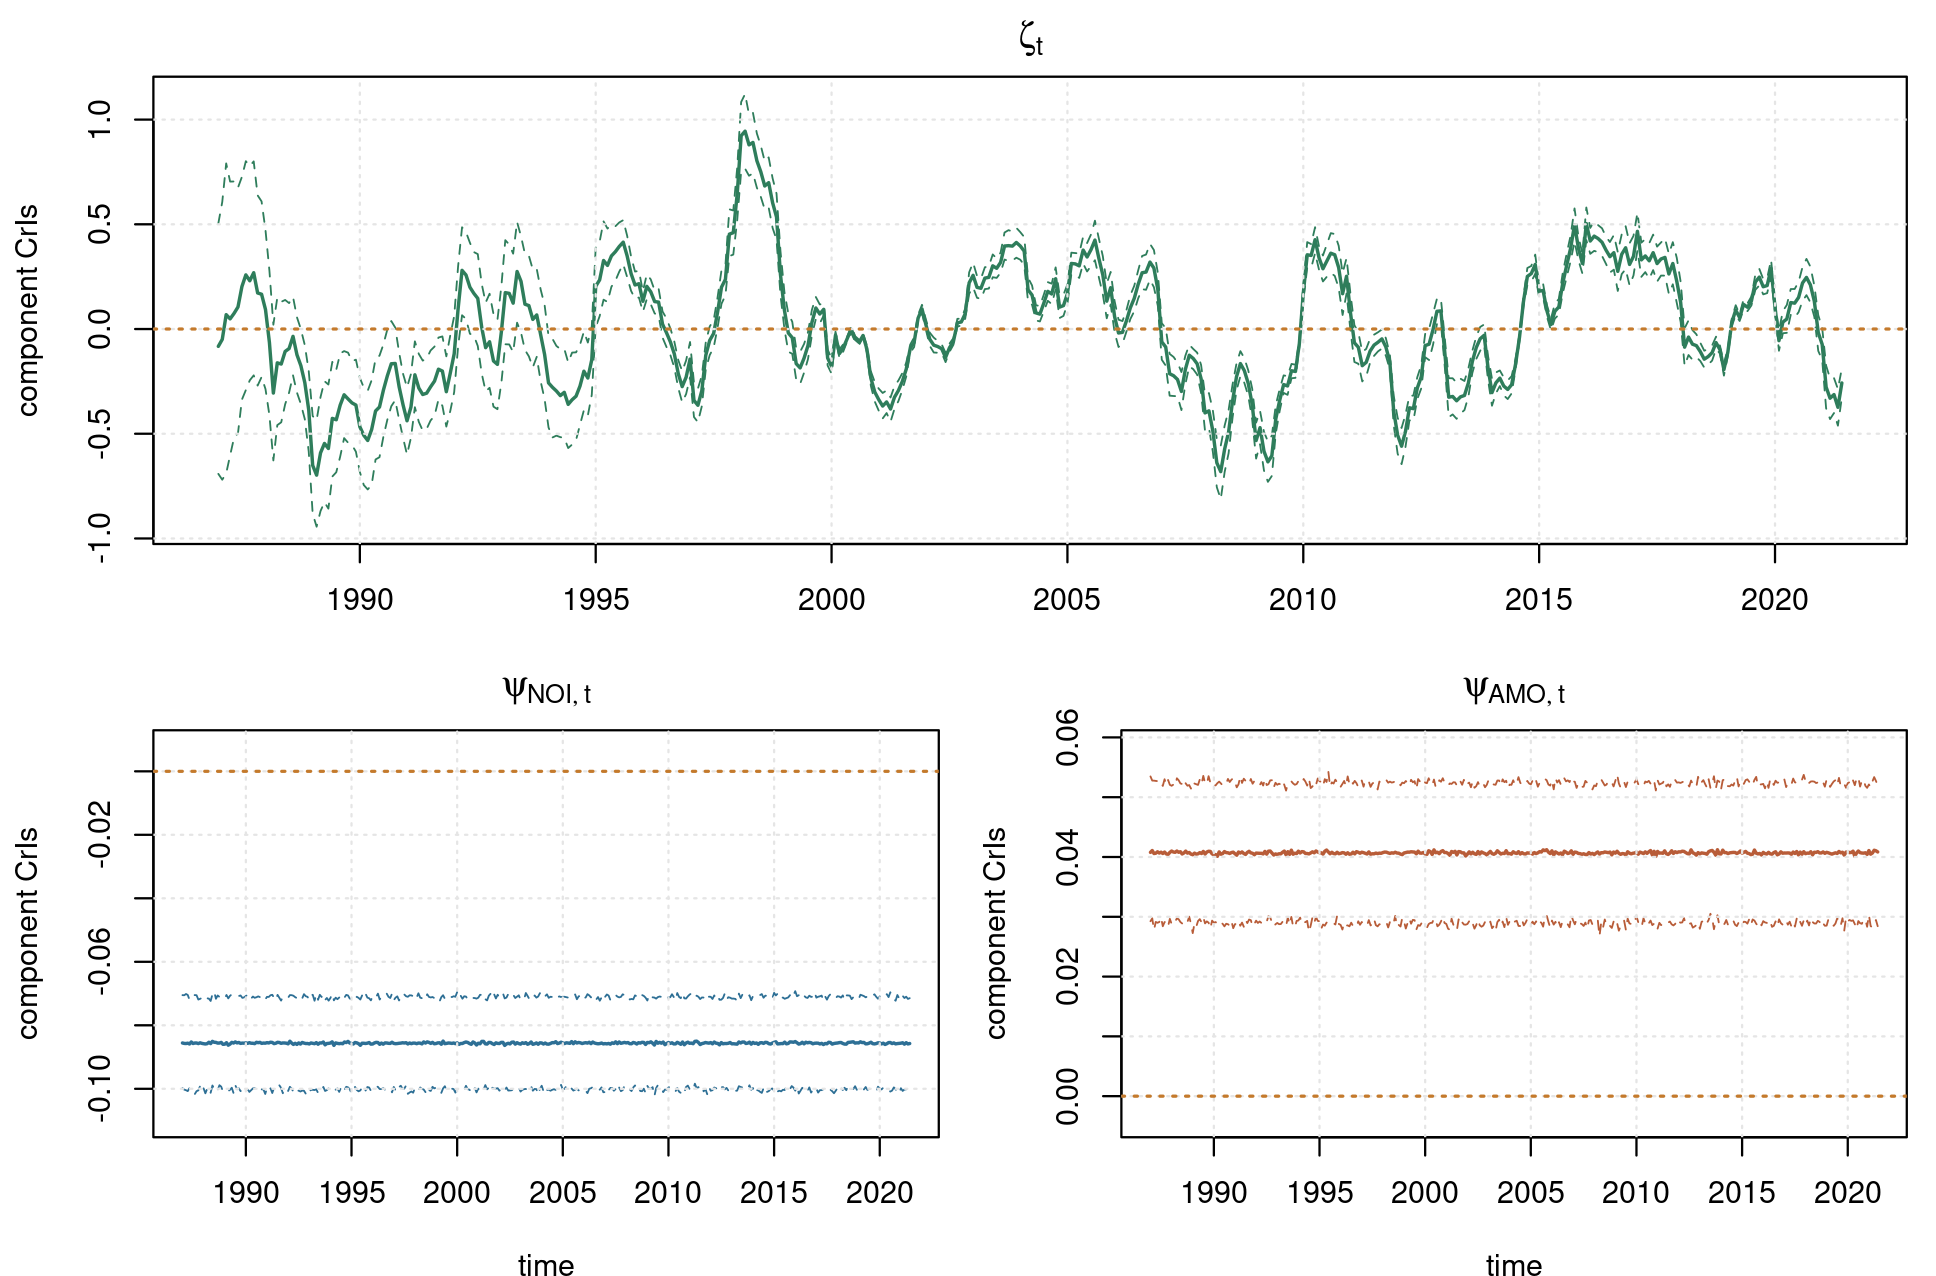
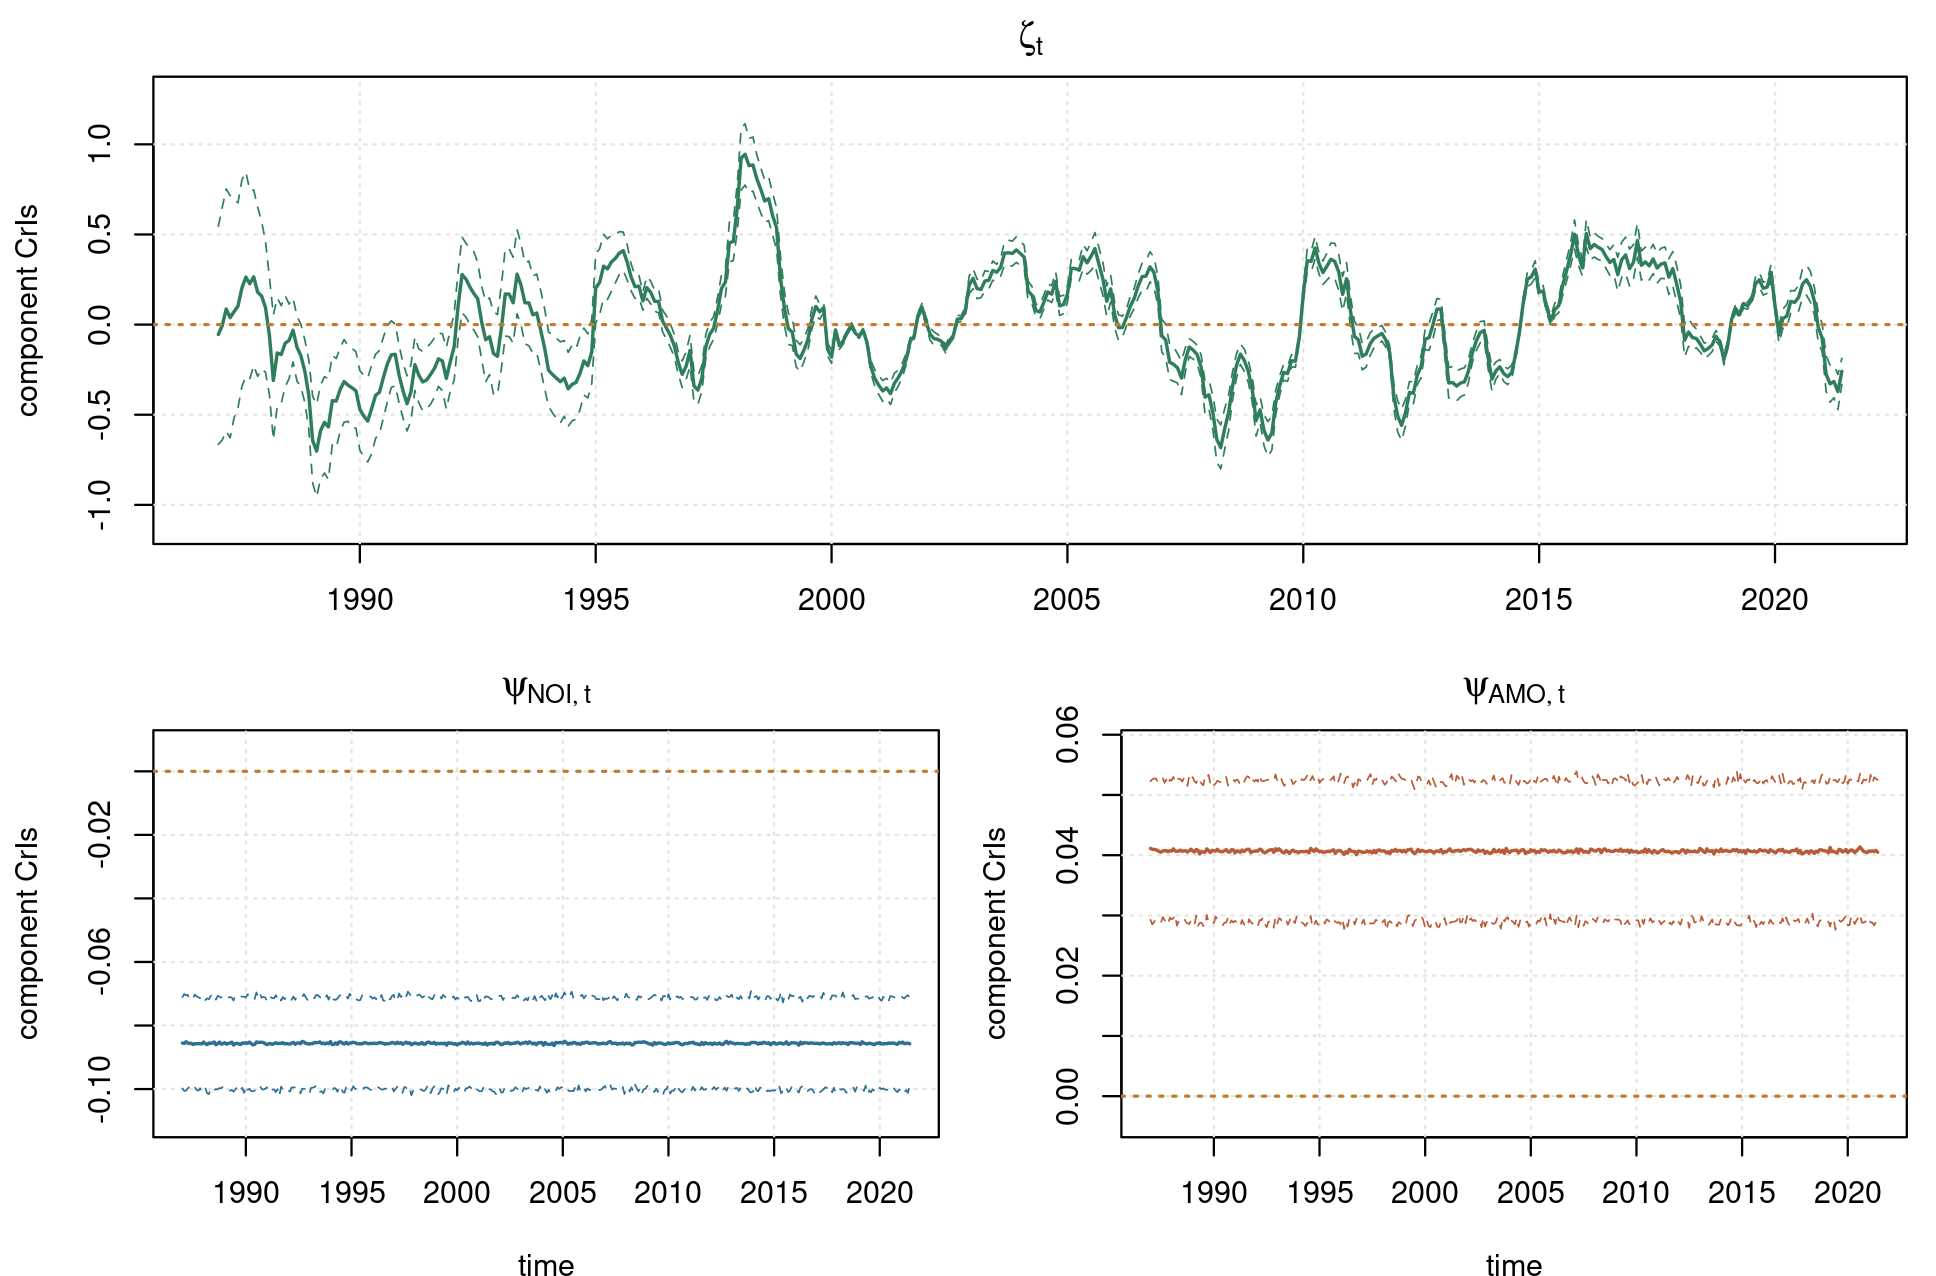
Align manuscript plotting chunks with package APIs

diff --git a/exdqlm-jss.tex b/exdqlm-jss.tex
@@ -909,7 +909,7 @@ R> M2mcmc = exdqlmMCMC(y = sunspot.year, p0 = 0.85, model = model,
  & MCMC & 325.53 & 0.164 & \textbf{5.095} & \textbf{2186.3} \\
  \bottomrule
 \end{tabular}
-\caption{Example 2: representative dynamic benchmark for the DQLM and exDQLM fits at \(p_0 = 0.85\). Each row reports fit runtime together with the deterministic KL normality diagnostic, the mean CRPS from posterior predictive empirical quantiles, and the posterior predictive loss criterion (PPLC). The LDVB rows use \code{n.samp = 3000}. The MCMC rows use 2000 burn-in iterations and 3000 retained draws. Runtimes are fit elapsed times stored in the returned fit objects and exclude diagnostic calculations, plotting, table construction, and manuscript rendering. They were measured under benchmark profile B on an Intel Xeon E5-4650 CPU with \proglang{R} 4.6.0, \pkg{exdqlm} version 1.0.0 at package commit \code{fdb74dd}, the C++ MCMC backend in \code{"fast"} mode, and \code{exdqlm.cpp\_threads = 1L}; the full provenance is recorded in \code{analysis/manuscript/outputs/tables/benchmark\_environment.csv}. Because the columns are the comparison metrics, bold entries indicate the smaller value within each model block; displayed ties are left unbolded.}
+\caption{Example 2: representative dynamic benchmark for the DQLM and exDQLM fits at \(p_0 = 0.85\). Each row reports fit runtime together with the deterministic KL normality diagnostic, the mean CRPS from posterior predictive empirical quantiles, and the posterior predictive loss criterion (PPLC). The LDVB rows use \code{n.samp = 3000}. The MCMC rows use 2000 burn-in iterations and 3000 retained draws. Runtimes are fit elapsed times stored in the returned fit objects and exclude diagnostic calculations, plotting, table construction, and manuscript rendering. They were measured under benchmark profile B on an Intel Xeon E5-4650 CPU with \proglang{R} 4.6.0, \pkg{exdqlm} version 1.0.0 at package commit \code{a9e6a81}, the C++ MCMC backend in \code{"fast"} mode, and \code{exdqlm.cpp\_threads = 1L}; the full provenance is recorded in \code{analysis/manuscript/outputs/tables/benchmark\_environment.csv}. Because the columns are the comparison metrics, bold entries indicate the smaller value within each model block; displayed ties are left unbolded.}
 \label{tab:ex2bench}
 \end{table}
 
@@ -1090,7 +1090,9 @@ much of the broad annual structure. The component panels clarify the model
 differences: the middle panel shows that the seasonal contribution is similar
 across models, while the lower panel separates the contemporaneous climate-index
 contribution in \code{MREG} from the accumulated transfer contribution in
-\code{MTF}.
+\code{MTF}. The plotting helpers are first called with \code{plot = FALSE} to
+return the same posterior summaries used in the figure; the subsequent calls
+with \code{add = TRUE} draw the three model fits on common axes.
 
 \begin{CodeChunk}
 \begin{CodeInput}
@@ -1100,55 +1102,27 @@ R> padded.range = function(..., pad = 0.08) {
 +     r = range(z)
 +     r + c(-1, 1) * diff(r) * pad
 +   }
-R> q.summary = function(fit) {
-+     theta = fit$samp.theta
-+     TT = dim(theta)[2]
-+     n.samp = dim(theta)[3]
-+     FF = matrix(fit$model$FF, nrow = dim(theta)[1], ncol = TT)
-+     draws = matrix(NA_real_, TT, n.samp)
-+     for (i in seq_len(n.samp)) draws[, i] = colSums(FF * theta[, , i])
-+     list(x = as.numeric(time(fit$y)), map = rowMeans(draws),
-+          lb = apply(draws, 1, quantile, 0.025),
-+          ub = apply(draws, 1, quantile, 0.975))
-+   }
-R> c.summary = function(fit, index, just.theta = FALSE) {
-+     theta = fit$samp.theta
-+     TT = dim(theta)[2]
-+     n.samp = dim(theta)[3]
-+     if (just.theta) {
-+       draws = matrix(theta[index, , ], nrow = TT, ncol = n.samp)
-+     } else {
-+       FF = array(fit$model$FF[index, ], c(length(index), TT, n.samp))
-+       th = array(theta[index, , ], c(length(index), TT, n.samp))
-+       draws = colSums(FF * th)
-+     }
-+     list(x = as.numeric(time(fit$y)), map = rowMeans(draws),
-+          lb = apply(draws, 1, quantile, 0.025),
-+          ub = apply(draws, 1, quantile, 0.975))
-+   }
-R> add.band = function(z, col) {
-+     lines(z$x, z$map, col = col, lwd = 1.6)
-+     lines(z$x, z$lb, col = col, lwd = 0.8, lty = 2)
-+     lines(z$x, z$ub, col = col, lwd = 0.8, lty = 2)
-+   }
-R> q0 = q.summary(M0); qreg = q.summary(MREG); qtf = q.summary(MTF)
-R> c0.seas = c.summary(M0, 2:7)
-R> creg.seas = c.summary(MREG, 2:7)
-R> ctf.seas = c.summary(MTF, 2:7)
-R> creg.direct = c.summary(MREG, 8:9)
-R> ctf.transfer = c.summary(MTF, 8)
+R> q0 = exdqlmPlot(M0, plot = FALSE)
+R> qreg = exdqlmPlot(MREG, plot = FALSE)
+R> qtf = exdqlmPlot(MTF, plot = FALSE)
+R> c0.seas = compPlot(M0, index = 2:7, plot = FALSE)
+R> creg.seas = compPlot(MREG, index = 2:7, plot = FALSE)
+R> ctf.seas = compPlot(MTF, index = 2:7, plot = FALSE)
+R> creg.direct = compPlot(MREG, index = 8:9, plot = FALSE)
+R> ctf.transfer = compPlot(MTF, index = 8, plot = FALSE)
 R> x.focus = c(2016, 2020)
 R> par(mfrow = c(3, 1), mar = c(2.8, 4.4, 1.0, 0.9),
 +      oma = c(1.8, 0, 0, 0))
 R> plot(as.numeric(time(y.fit)), as.numeric(y.fit), type = "l",
 +       col = "grey70", xlim = x.focus, xlab = "",
-+       ylim = padded.range(as.numeric(y.fit), q0$lb, q0$ub,
-+                           qreg$lb, qreg$ub, qtf$lb, qtf$ub),
++       ylim = padded.range(as.numeric(y.fit), q0$lb.quant, q0$ub.quant,
++                           qreg$lb.quant, qreg$ub.quant,
++                           qtf$lb.quant, qtf$ub.quant),
 +       ylab = "log flow / quantile")
 R> grid(col = "grey90")
-R> add.band(q0, "purple")
-R> add.band(qreg, "steelblue")
-R> add.band(qtf, "forest green")
+R> exdqlmPlot(M0, add = TRUE, col = "purple")
+R> exdqlmPlot(MREG, add = TRUE, col = "steelblue")
+R> exdqlmPlot(MTF, add = TRUE, col = "forest green")
 R> legend("topleft",
 +        legend = c("M0 no covariates", "MREG direct regression",
 +                   "MTF transfer function"),
@@ -1172,14 +1146,14 @@ seventh elements of the state vector. The middle panel of Figure
 over the same 2016--2020 window.
 \begin{CodeChunk}
 \begin{CodeInput}
-R> plot(NA, ylim = padded.range(c0.seas$lb, c0.seas$ub,
-+                               creg.seas$lb, creg.seas$ub,
-+                               ctf.seas$lb, ctf.seas$ub),
+R> plot(NA, ylim = padded.range(c0.seas$lb.comp, c0.seas$ub.comp,
++                               creg.seas$lb.comp, creg.seas$ub.comp,
++                               ctf.seas$lb.comp, ctf.seas$ub.comp),
 +       xlim = x.focus, ylab = "seasonal contribution", xlab = "")
 R> grid(col = "grey90")
-R> add.band(c0.seas, "purple")
-R> add.band(creg.seas, "steelblue")
-R> add.band(ctf.seas, "forest green")
+R> compPlot(M0, index = 2:7, add = TRUE, col = "purple")
+R> compPlot(MREG, index = 2:7, add = TRUE, col = "steelblue")
+R> compPlot(MTF, index = 2:7, add = TRUE, col = "forest green")
 R> abline(h = 0, col = "orange", lty = 3, lwd = 1.4)
 \end{CodeInput}
 \end{CodeChunk}
@@ -1192,12 +1166,12 @@ trend and seasonal baseline, even when the fitted quantiles themselves are
 visually close.
 \begin{CodeChunk}
 \begin{CodeInput}
-R> plot(NA, ylim = padded.range(creg.direct$lb, creg.direct$ub,
-+                               ctf.transfer$lb, ctf.transfer$ub, 0),
+R> plot(NA, ylim = padded.range(creg.direct$lb.comp, creg.direct$ub.comp,
++                               ctf.transfer$lb.comp, ctf.transfer$ub.comp, 0),
 +       xlim = x.focus, ylab = "covariate contribution", xlab = "")
 R> grid(col = "grey90")
-R> add.band(creg.direct, "steelblue")
-R> add.band(ctf.transfer, "forest green")
+R> compPlot(MREG, index = 8:9, add = TRUE, col = "steelblue")
+R> compPlot(MTF, index = 8, add = TRUE, col = "forest green")
 R> abline(h = 0, col = "orange", lty = 3, lwd = 1.4)
 R> legend("topleft", legend = c("MREG direct", "MTF transfer"),
 +        col = c("steelblue", "forest green"), lty = 1, lwd = 1.5,
@@ -1220,30 +1194,33 @@ indices 8, 9, and 10 correspond to \(\zeta_t\), \(\psi_{\mathrm{NOI},t}\), and
 \begin{CodeInput}
 R> layout(matrix(c(1, 1, 2, 3), nrow = 2, byrow = TRUE),
 +        heights = c(1.05, 1))
-R> zeta = c.summary(MTF, 8, just.theta = TRUE)
-R> psi.noi = c.summary(MTF, 9, just.theta = TRUE)
-R> psi.amo = c.summary(MTF, 10, just.theta = TRUE)
+R> zeta = compPlot(MTF, index = 8, just.theta = TRUE, plot = FALSE)
+R> psi.noi = compPlot(MTF, index = 9, just.theta = TRUE, plot = FALSE)
+R> psi.amo = compPlot(MTF, index = 10, just.theta = TRUE, plot = FALSE)
 R> par(mar = c(3.0, 4.2, 2.1, 0.8), oma = c(0, 0, 0, 0))
-R> plot(zeta$x, zeta$map, type = "n", xlab = "",
+R> plot(zeta$x, zeta$map.comp, type = "n", xlab = "",
 +       ylab = "component CrIs",
-+       ylim = padded.range(zeta$lb, zeta$ub, 0))
++       ylim = padded.range(zeta$lb.comp, zeta$ub.comp, 0))
 R> grid(col = "grey90")
-R> add.band(zeta, "forest green")
+R> compPlot(MTF, index = 8, just.theta = TRUE, add = TRUE,
++          col = "forest green")
 R> abline(h = 0, col = "orange", lty = 3, lwd = 1.4)
 R> title(expression(zeta[t]))
 R> par(mar = c(3.8, 4.2, 2.1, 0.8))
-R> plot(psi.noi$x, psi.noi$map, type = "n",
+R> plot(psi.noi$x, psi.noi$map.comp, type = "n",
 +       xlab = "time", ylab = "component CrIs",
-+       ylim = padded.range(psi.noi$lb, psi.noi$ub, 0))
++       ylim = padded.range(psi.noi$lb.comp, psi.noi$ub.comp, 0))
 R> grid(col = "grey90")
-R> add.band(psi.noi, "steelblue")
+R> compPlot(MTF, index = 9, just.theta = TRUE, add = TRUE,
++          col = "steelblue")
 R> abline(h = 0, col = "orange", lty = 3, lwd = 1.4)
 R> title(expression(psi[list(NOI, t)]))
-R> plot(psi.amo$x, psi.amo$map, type = "n",
+R> plot(psi.amo$x, psi.amo$map.comp, type = "n",
 +       xlab = "time", ylab = "component CrIs",
-+       ylim = padded.range(psi.amo$lb, psi.amo$ub, 0))
++       ylim = padded.range(psi.amo$lb.comp, psi.amo$ub.comp, 0))
 R> grid(col = "grey90")
-R> add.band(psi.amo, "darkorange")
+R> compPlot(MTF, index = 10, just.theta = TRUE, add = TRUE,
++          col = "darkorange")
 R> abline(h = 0, col = "orange", lty = 3, lwd = 1.4)
 R> title(expression(psi[list(AMO, t)]))
 \end{CodeInput}
@@ -1365,9 +1342,9 @@ R> tab.ex3 = data.frame(
  \toprule
  Model & KL & CRPS & PPLC \\
  \midrule
- \code{M0} no covariates & 0.168 & 0.470 & \textbf{99.497} \\
- \code{MREG} direct regression & \textbf{0.112} & \textbf{0.347} & 151.073 \\
- \code{MTF} transfer function & 0.155 & 0.366 & 125.318 \\
+ \code{M0} no covariates & 0.168 & 0.470 & \textbf{99.365} \\
+ \code{MREG} direct regression & \textbf{0.112} & \textbf{0.348} & 151.984 \\
+ \code{MTF} transfer function & 0.155 & 0.365 & 125.399 \\
  \bottomrule
 \end{tabular}
 \caption{Example 3: Big Tree water flow. Package diagnostics from

diff --git a/analysis/manuscript/outputs/tables/manuscript_repro_tracker.md b/analysis/manuscript/outputs/tables/manuscript_repro_tracker.md
@@ -1,6 +1,6 @@
 # Manuscript Reproducibility Tracker
 
-Generated: 2026-05-23 16:42:28
+Generated: 2026-05-26 02:38:45
 Profile: standard
 Seed: 20260501
 